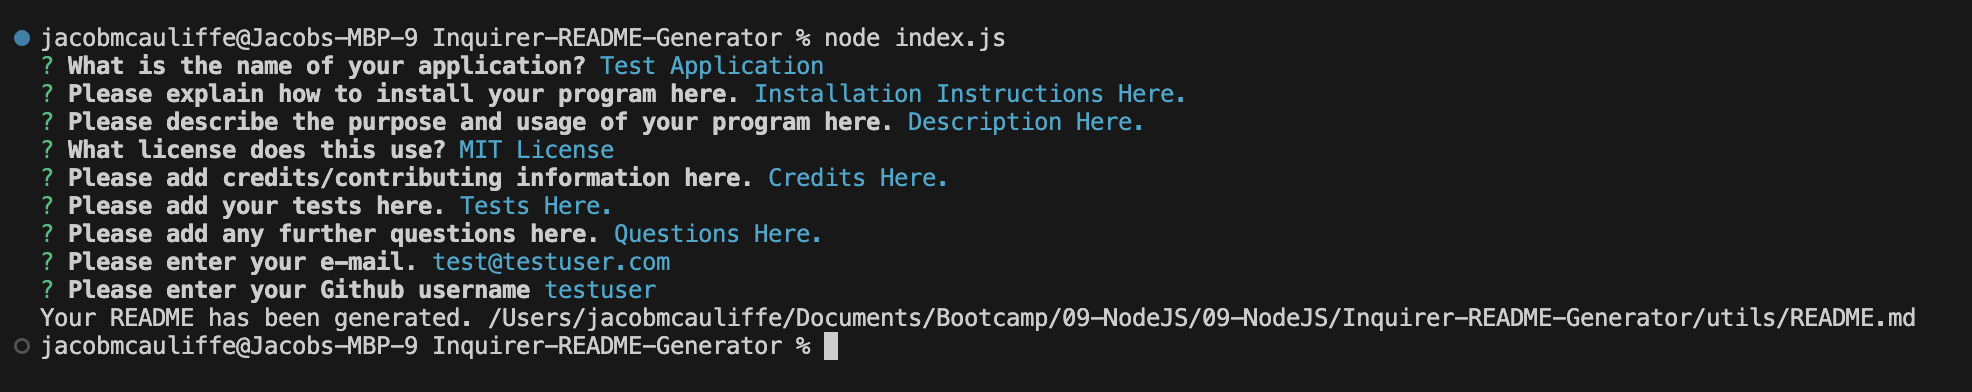
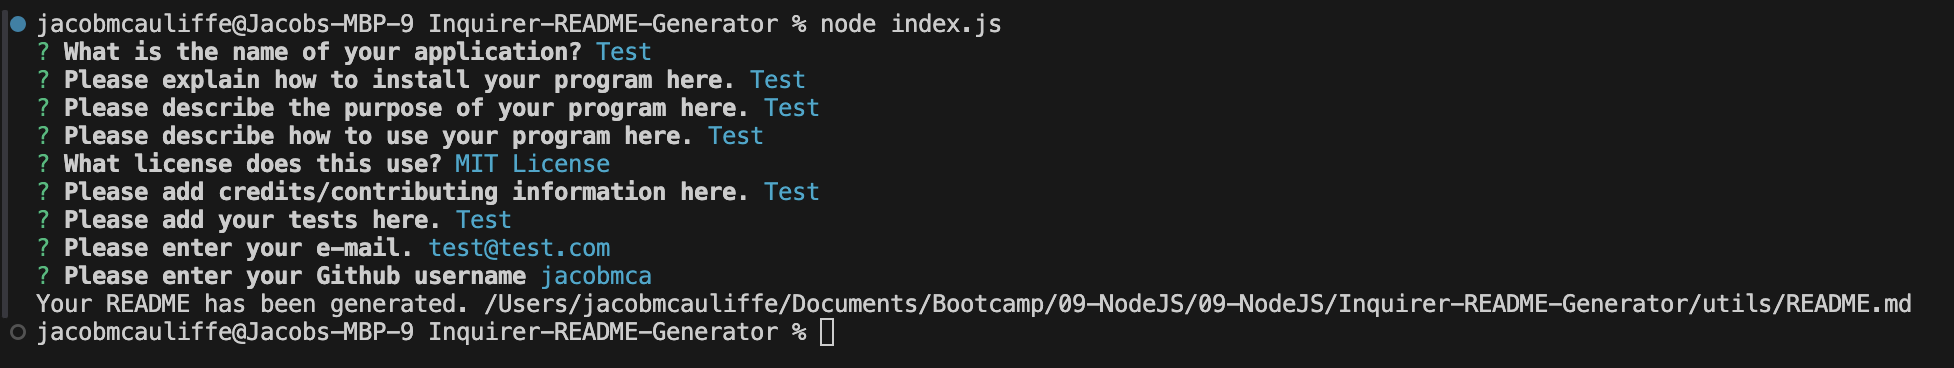
Added usage section, updated README, general polishes.

Changed region(s): [[0.0, 0.0299, 0.999, 0.9266]]

diff --git a/index.js b/index.js
@@ -18,8 +18,13 @@ const questions = [
     },
     {
         type: "input",
-        message: "Please describe the purpose and usage of your program here.",
+        message: "Please describe the purpose of your program here.",
         name: "description",
+    },
+    {
+        type: "input",
+        message: "Please describe how to use your program here.",
+        name: "usage",
     },
     {
         type: "list",
@@ -36,11 +41,6 @@ const questions = [
         type: "input",
         message: "Please add your tests here.",
         name: "tests",
-    },
-    {
-        type: "input",
-        message: "Please add any further questions here.",
-        name: "questions",
     },
     {
         type: "input",

diff --git a/utils/generateMarkdown.js b/utils/generateMarkdown.js
@@ -56,6 +56,7 @@ ${renderLicenseBadge(data.license)}
 ## Table of Contents
 * [Installation](#installation)
 * [Description](#description)
+* [Usage](#usage)
 * [License](#license)
 * [Credits](#credits)
 * [Tests](#tests)
@@ -67,6 +68,9 @@ ${data.installation}
 ## Description
 ${data.description}
 
+## Usage
+${data.usage}
+
 ## License
 ${renderLicenseSection(data.license)}
 
@@ -77,7 +81,6 @@ ${data.credits}
 ${data.tests}
 
 ## Questions
-${data.questions}
 If you have further questions, you can reach me at [${data.email}](mailto:${data.email}).
 
 GitHub Account: [${data.github}](https://github.com/${data.github})

diff --git a/README.md b/README.md
@@ -3,6 +3,7 @@
 ## Table of Contents
 * [Installation](#installation)
 * [Description](#description)
+* [Usage](#usage)
 * [License](#license)
 * [Credits](#credits)
 * [Tests](#tests)
@@ -17,8 +18,17 @@ To install, please clone this repository to your computer using the following st
 4. Press enter.
 
 ## Description
-This is a node-baed program that generates a professional README.md file based on the user's input. It utilizes the Inquirer package.
+This is a node-based program that generates a professional README.md file based on the user's input. It utilizes the Inquirer package.
 
+The program allows the user to input a title, installation steps, description, usage explanation license, credits, and a list of tests to be automatically populated into the README format. The user can also enter their e-mail and Github account, for population into a "Contact Me" section at the bottom of the page that includes links to the user's e-mail and Github profile.
+
+The README program generates takes the same format as this README you are currently reading does.
+
+A Table of Contents section is automatically created in the README, which takes the user to each section of the document.
+
+For the license step, the user can select a license from a list provided by the program. Once selected, a license badge is added to the top of the README, and a notice populates in the License section explaining the license the application is covered under.
+
+## Usage
 To run the program, navigate to the Inquirer-README-Generator folder and enter "node index.js" into your local terminal. Follow the steps as prompted.
 
 ![Screenshot](assets/screenshots/screenshot1.png)
@@ -29,14 +39,6 @@ Once all the prompts have been answered, a message will be displayed stating the
 
 Note - if you generate another README after creating your first one, it will overwrite the README that already exists in your utils folder.
 
-Once the program has been run, the user will be able to input a title, installation steps, description, license, credits, list of tests, and questions to be automatically populated into the README format. The user will also be able to enter their e-mail and Github account, for population into a "Contact Me" section at the bottom of the page that includes links to the user's e-mail and Github profile.
-
-The README takes the same format as this README does.
-
-A Table of Contents section is automatically created in the README, which takes the user to each section of the document.
-
-For the license step, the user can select a license from a list provided by the program. Once one is selected, a license badge is added at the top of the README, and a notice populates to the License section of the README explaining the license the application is covered under.
-
 ## License
 This project is licensed under the MIT License. For more information, please see the [MIT License](https://opensource.org/licenses/MIT).
 
@@ -44,7 +46,7 @@ This project is licensed under the MIT License. For more information, please see
 This program was created by Jacob McAuliffe for the UC Berkeley eDX Coding Boot Camp.
 
 ## Tests
-In the future, it might be beneficial to try and add other features to this README generator. Options to include in future versions of this could be the ability to automatically upload screenshots, edit the Table of Contents, a section listing known bugs, and functionality to create multiple READMEs without overwriting the first one in the utils subdirectory..
+In the future, I would like to incorporate other features to this README generator. Options for future versions include the ability to automatically upload screenshots, edit the Table of Contents, a section listing known bugs, and functionality to create multiple READMEs without overwriting the first one in the utils subdirectory.
 
 ## Questions
 If you have further questions, you can reach me at [mcauliffemedia@gmail.com](mailto:mcauliffemedia@gmail.com).

diff --git a/utils/README.md b/utils/README.md
@@ -3,28 +3,31 @@
 ## Table of Contents
 * [Installation](#installation)
 * [Description](#description)
+* [Usage](#usage)
 * [License](#license)
 * [Credits](#credits)
 * [Tests](#tests)
 * [Questions](#questions)
     
 ## Installation
-Installation Instructions Here.
+Installation explanation here.
 
 ## Description
-Description Here.
+Description here.
+
+## Usage
+Usage explanation here.
 
 ## License
 This project is licensed under the MIT License. For more information, please see the [MIT License](https://opensource.org/licenses/MIT).
 
 ## Credits
-Credits Here.
+Credits here.
 
 ## Tests
-Tests Here.
+Tests here.
 
 ## Questions
-Questions Here.
 If you have further questions, you can reach me at [test@testuser.com](mailto:test@testuser.com).
 
 GitHub Account: [testuser](https://github.com/testuser)
